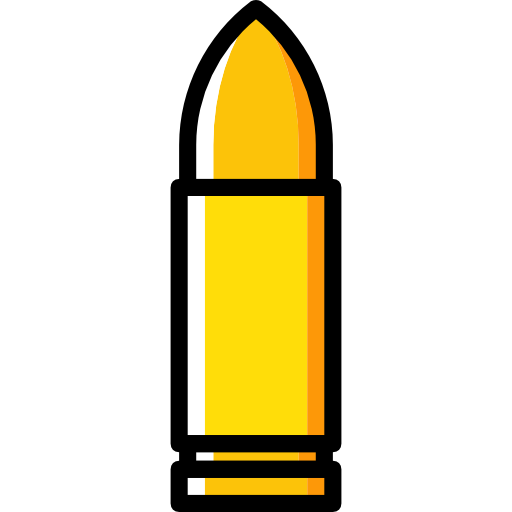
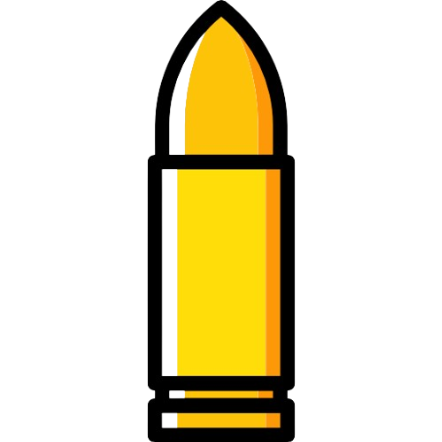
Add files via upload

diff --git a/assets/main.py b/assets/main.py
@@ -5,81 +5,114 @@ from kivy import platform
 from kivy.core.window import Window
 from kivy.clock import Clock
 from kivy.uix.image import Image
+# [ЗМІНА] Імпортуємо компоненти для діалогового вікна паузи (KivyMD)
 import time
 import random
 from kivy.metrics import dp
 from kivymd.uix.dialog import (MDDialog,MDDialogHeadlineText,MDDialogButtonContainer)
-from kivymd.uix.button import MDButton,MDButtonText
+from kivymd.uix.button import MDButton, MDButtonText
 from kivy.uix.widget import Widget
 
 
+# [ЗМІНА] Куля тепер приймає параметр speed, щоб визначати напрямок (вгору або вниз)
 class Bullet(Image):
-    def __init__(self, speed, **kwargs):
+    def __init__(self, speed,owner, **kwargs):
         super().__init__(**kwargs)
-        self.source = "assets/images/bullet.png"
+        self.source = "assets/images/img_1.png"
         self.size_hint = (None, None)
-        self.size = (10, 30)
+        self.size = (dp(10), dp(30))
         self.speed = speed
+        self.owner = owner
 
+
+# [ЗМІНА] Базовий клас для ВСІХ кораблів (спільна основа)
 class BaseShip(Image):
     def __init__(self, **kwargs):
         super().__init__(**kwargs)
-        self.size_hint = (None,None)
+        self.size_hint = (None, None)
 
+
+# [ЗМІНА] Клас корабля гравця, який наслідує BaseShip
 class PlayerShip(BaseShip):
-    def __init__(self,**kwargs):
+    def __init__(self, **kwargs):
         super().__init__(**kwargs)
         self.speed = dp(5)
 
-    def move(self,keys,screen_width):
+    # [ЗМІНА] Логіка керування винесена безпосередньо в клас корабля
+    def move(self, keys, screen_width):
         if keys["left"] and self.x > 0:
             self.x -= self.speed
         if keys["right"] and self.right < screen_width:
             self.x += self.speed
 
+    # [ЗМІНА] Новий метод стрільби всередині гравця
     def fire(self):
-        bullet = Bullet(speed=dp(10))
+        bullet = Bullet(speed=dp(10),owner="player")
         bullet.center_x = self.center_x
         bullet.y = self.top
         return bullet
 
+# [ЗМІНА] Клас ворожого корабля
 class EnemyShip(BaseShip):
-    def __init__(self,**kwargs):
+    def __init__(self, **kwargs):
         super().__init__(**kwargs)
         self.speed = dp(3)
         self.last_shot = time.time()
-        self.fire_rate = random.uniform(1.5,3.0)
+        self.fire_rate = random.uniform(1.5, 3.0)  # Стріляє кожні 1.5 - 3 секунди
 
+    # [ЗМІНА] Метод руху ворога (завжди вниз)
     def move(self):
         self.y -= self.speed
 
+    # Новий метод стрільби всередині ворога
     def fire(self):
-        bullet = Bullet(speed=dp(-8))
+        bullet = Bullet(speed=dp(-8),owner="enemy")
         bullet.center_x = self.center_x
         bullet.top = self.y
         return bullet
 
 
 class MainScreen(MDScreen):
-    ...
+    pass
+
+
+class GameOverScreen(MDScreen):
+    pass
 
 
 class GameScreen(MDScreen):
     fps = 60
-    #ship_speed = 5
-    #bullet_speed = 10
+    # ship_speed = 5
+    # bullet_speed = 10
 
     def __init__(self, **kwargs):
         super().__init__(**kwargs)
         self.keys = {"left": False, "right": False, "fire": False}
         self.bullets = []
-        self.enemies = []
-        self.dialog_pause = None
         self.game_event = None
+        # [ЗМІНА] Додано список ворогів і змінну для меню паузи
+        self.enemies = []  # 🆕🆕🆕
+        self.dialog_pause = None  # 🆕🆕🆕
+        # [ЗМІНА] Змінні для постійного спавну ворогів
         self.spawn_timer = 0
-        self.spawn_delay = 2.0
+        self.spawn_delay = 2.0  # Час у секундах до появи наступного ворога
 
     def on_enter(self, *args):
+
+        # [ЗМІНА] Очищення сцени від старих куль та ворогів перед новою грою
+        for enemy in self.enemies:
+            self.ids.front.remove_widget(enemy)
+        self.enemies.clear()
+
+        for bullet in self.bullets:
+            self.ids.front.remove_widget(bullet)
+        self.bullets.clear()
+
+        self.ids.ship.center_x = Window.width / 2
+        self.keys = {"left": False, "right": False, "fire": False}
+        self.spawn_timer = 0
+
+        # це вже було
         self.spawn_enemy()
         self.game_event = Clock.schedule_interval(self.update, 1 / self.fps)
 
@@ -96,13 +129,12 @@ class GameScreen(MDScreen):
         self.enemies.append(enemy)
 
     def update(self, dt):
-        #ship = self.ids.ship
-        #if self.keys["left"] and ship.x > 0:
-
+        # ship = self.ids.ship
+        # if self.keys["left"] and ship.x > 0:
         #     ship.x -= self.ship_speed
         # if self.keys["right"] and ship.right < Window.width:
         #     ship.x += self.ship_speed
-        # [ЗМІНА] Метод створення ворожого корабля у випадковій позиції
+
         # [ЗМІНА] Оновлення стану головного корабля через його власний метод
         self.ids.ship.move(self.keys, Window.width)
 
@@ -130,26 +162,93 @@ class GameScreen(MDScreen):
                 self.ids.front.remove_widget(enemy)
                 self.enemies.remove(enemy)
 
+        # Використовуємо self.bullets[:], щоб можна було безпечно видаляти елементи зі списку
         for bullet in self.bullets[:]:
             bullet.y += bullet.speed
-            if bullet.y > Window.height:
-                self.ids.front.remove_widget(bullet)
-                self.bullets.remove(bullet)
+            # Якщо куля вилетіла за межі екрана, видаляємо її зі сцени та списку
+            if bullet.y > Window.height or bullet.top < 0:
+                self.remove_bullet(bullet)
 
+        self.check_collisions()
+
+    # [ЗМІНА] Окремий метод для перевірки всіх зіткнень
+    def check_collisions(self):
+        # 1. Перевірка зіткнення корабля гравця з ворогами
+        for enemy in self.enemies[:]:
+            # collide_widget перевіряє, чи накладаються координати двох віджетів
+            if self.ids.ship.collide_widget(enemy):
+                self.game_over()
+                return  # Якщо гра завершена, далі не перевіряємо
+
+        # 2. Перевірка колізій куль
+        for bullet in self.bullets[:]:
+            # Якщо це куля гравця
+            if bullet.owner == "player":
+                for enemy in self.enemies[:]:
+                    if bullet.collide_widget(enemy):
+                        # Куля потрапила у ворога: видаляємо ворога та кулю
+                        self.ids.front.remove_widget(enemy)
+                        if enemy in self.enemies:
+                            self.enemies.remove(enemy)
+                        self.remove_bullet(bullet)
+                        break  # Кулю знищено, виходимо з внутрішнього циклу
+
+            # Якщо це куля ворога
+            elif bullet.owner == "enemy":
+                if bullet.collide_widget(self.ids.ship):
+                    # Куля потрапила в гравця: гра завершується
+                    self.remove_bullet(bullet)
+                    self.game_over()
+                    return
+
+    # [ЗМІНА] Окремий метод для безпечного видалення кулі
+    def remove_bullet(self, bullet):
+        if bullet in self.bullets:
+            self.ids.front.remove_widget(bullet)
+            self.bullets.remove(bullet)
+
+    # [ЗМІНА] Окремий метод для логіки програшу
+    def game_over(self):
+        # Зупиняємо таймер гри
+        if self.game_event:
+            self.game_event.cancel()
+            self.game_event = None
+        # Перекидаємо на екран програшу
+        self.manager.current = "game_over"
+
+    # [ЗМІНА] Метод-міст для кнопки на екрані
     def fire(self):
-        bullet = Bullet()
+        # Отримуємо кулю від корабля гравця
+        new_bullet = self.ids.ship.fire()
+        self.ids.front.add_widget(new_bullet)
+        self.bullets.append(new_bullet)
 
-        bullet.center_x = self.ids.ship.center_x
-        bullet.y = self.ids.ship.top
+    # [ЗМІНА] Метод для відкриття діалогового вікна паузи
+    def pause_game(self):
+        if self.game_event:
+            self.game_event.cancel()
+            self.game_event = None
 
-        self.ids.front.add_widget(bullet)
-        self.bullets.append(bullet)
+        if not self.dialog_pause:
+            self.dialog_pause = MDDialog(
+                MDDialogHeadlineText(text="PAUSE"),
+                MDDialogButtonContainer(Widget(),MDButton(MDButtonText(text="RESUME"),
+                        on_release=self.resume_game
+                    )
+                ),
+            )
+        self.dialog_pause.open()
+
+    # [ЗМІНА] Метод для відновлення гри після паузи
+    def resume_game(self, *args):
+        self.dialog_pause.dismiss()
+        self.game_event = Clock.schedule_interval(self.update, 1 / self.fps)
 
 
 class ShooterApp(MDApp):
     def build(self):
         self.theme_cls.theme_style = "Dark"
-        self.theme_cls.primary_palette = "LightBlue"
+        self.theme_cls.primary_palette = "Gray"
 
         self.sm = MDScreenManager()
 
@@ -160,7 +259,7 @@ class ShooterApp(MDApp):
 
 
 if platform != "android":
-    Window.size = (400, 900)
+    Window.size = (450, 900)
     Window.top = 100
     Window.left = 600
 
